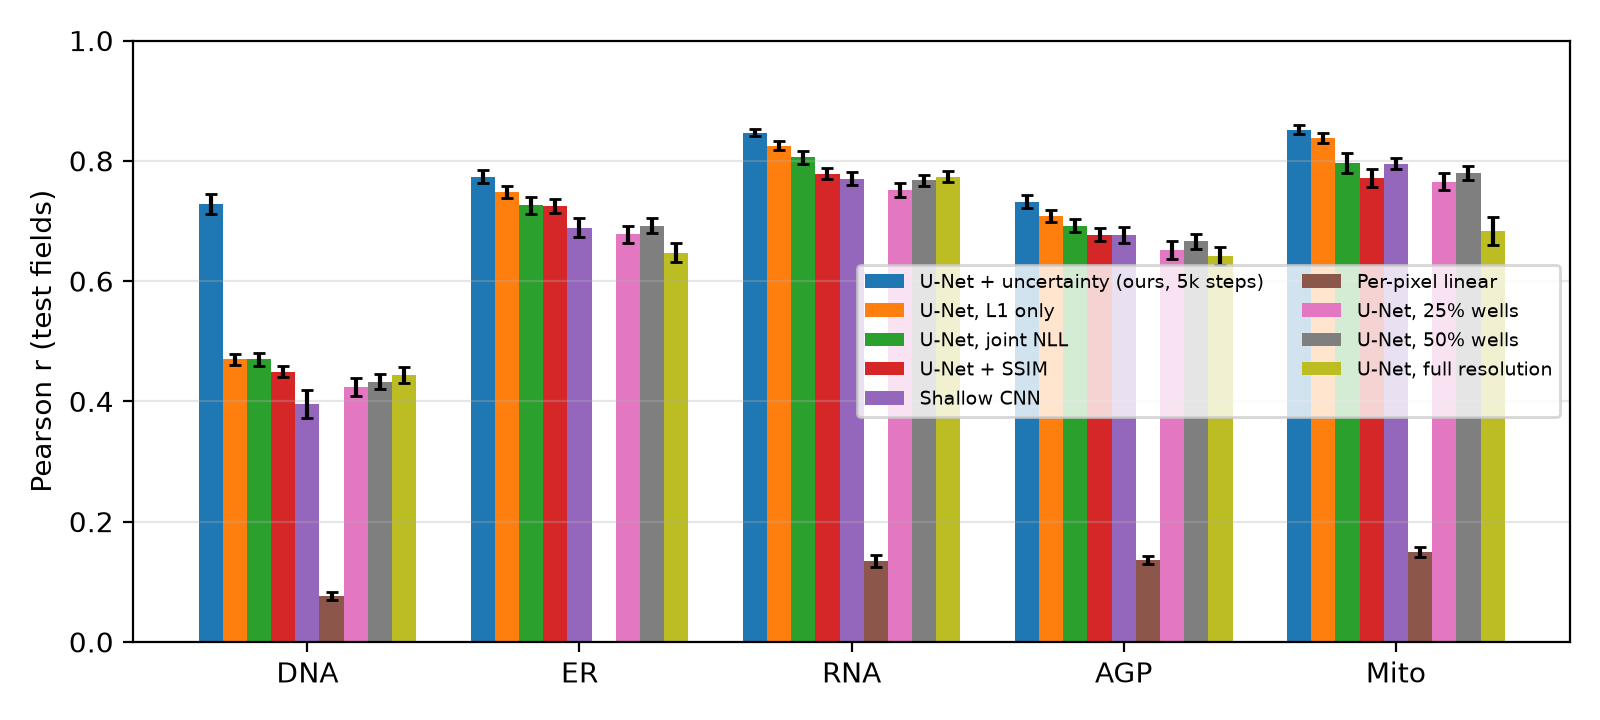
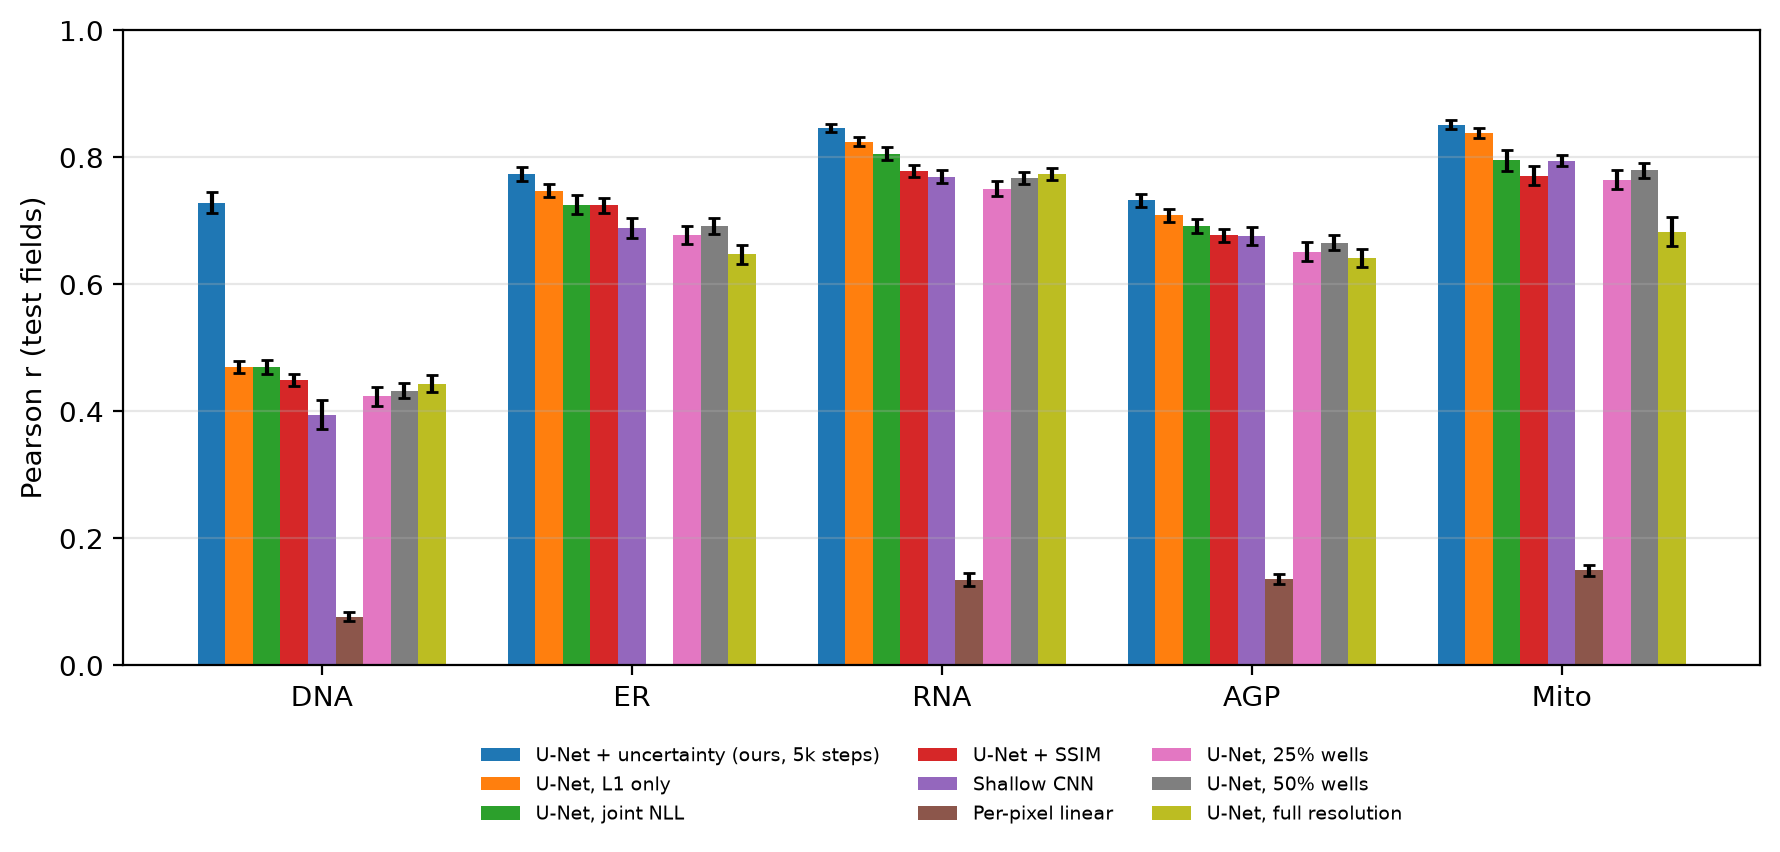
Per-channel figure legend below axes

diff --git a/src/vptox/figures.py b/src/vptox/figures.py
@@ -69,7 +69,7 @@ def fig_channels(df: pd.DataFrame, out: Path):
     exps = [e for e in LABELS if e in df.index]
     x = np.arange(len(CHANNELS))
     w = 0.8 / len(exps)
-    fig, ax = plt.subplots(figsize=(8, 3.6))
+    fig, ax = plt.subplots(figsize=(9, 4.4))
     for i, e in enumerate(exps):
         vals = [df.loc[e, f"pcc_{c}"] for c in CHANNELS]
         errs = [df.loc[e].get(f"pcc_{c}_ci95", 0) for c in CHANNELS]
@@ -77,10 +77,10 @@ def fig_channels(df: pd.DataFrame, out: Path):
     ax.set_xticks(x, CHANNELS)
     ax.set_ylabel("Pearson r (test fields)")
     ax.set_ylim(0, 1)
-    ax.legend(fontsize=7, ncol=2)
+    ax.legend(fontsize=7, ncol=3, loc="upper center", bbox_to_anchor=(0.5, -0.1), frameon=False)
     ax.grid(axis="y", alpha=0.3)
     fig.tight_layout()
-    fig.savefig(out / "fig_channels.png", dpi=200)
+    fig.savefig(out / "fig_channels.png", dpi=200, bbox_inches="tight")
     plt.close(fig)
 
 
